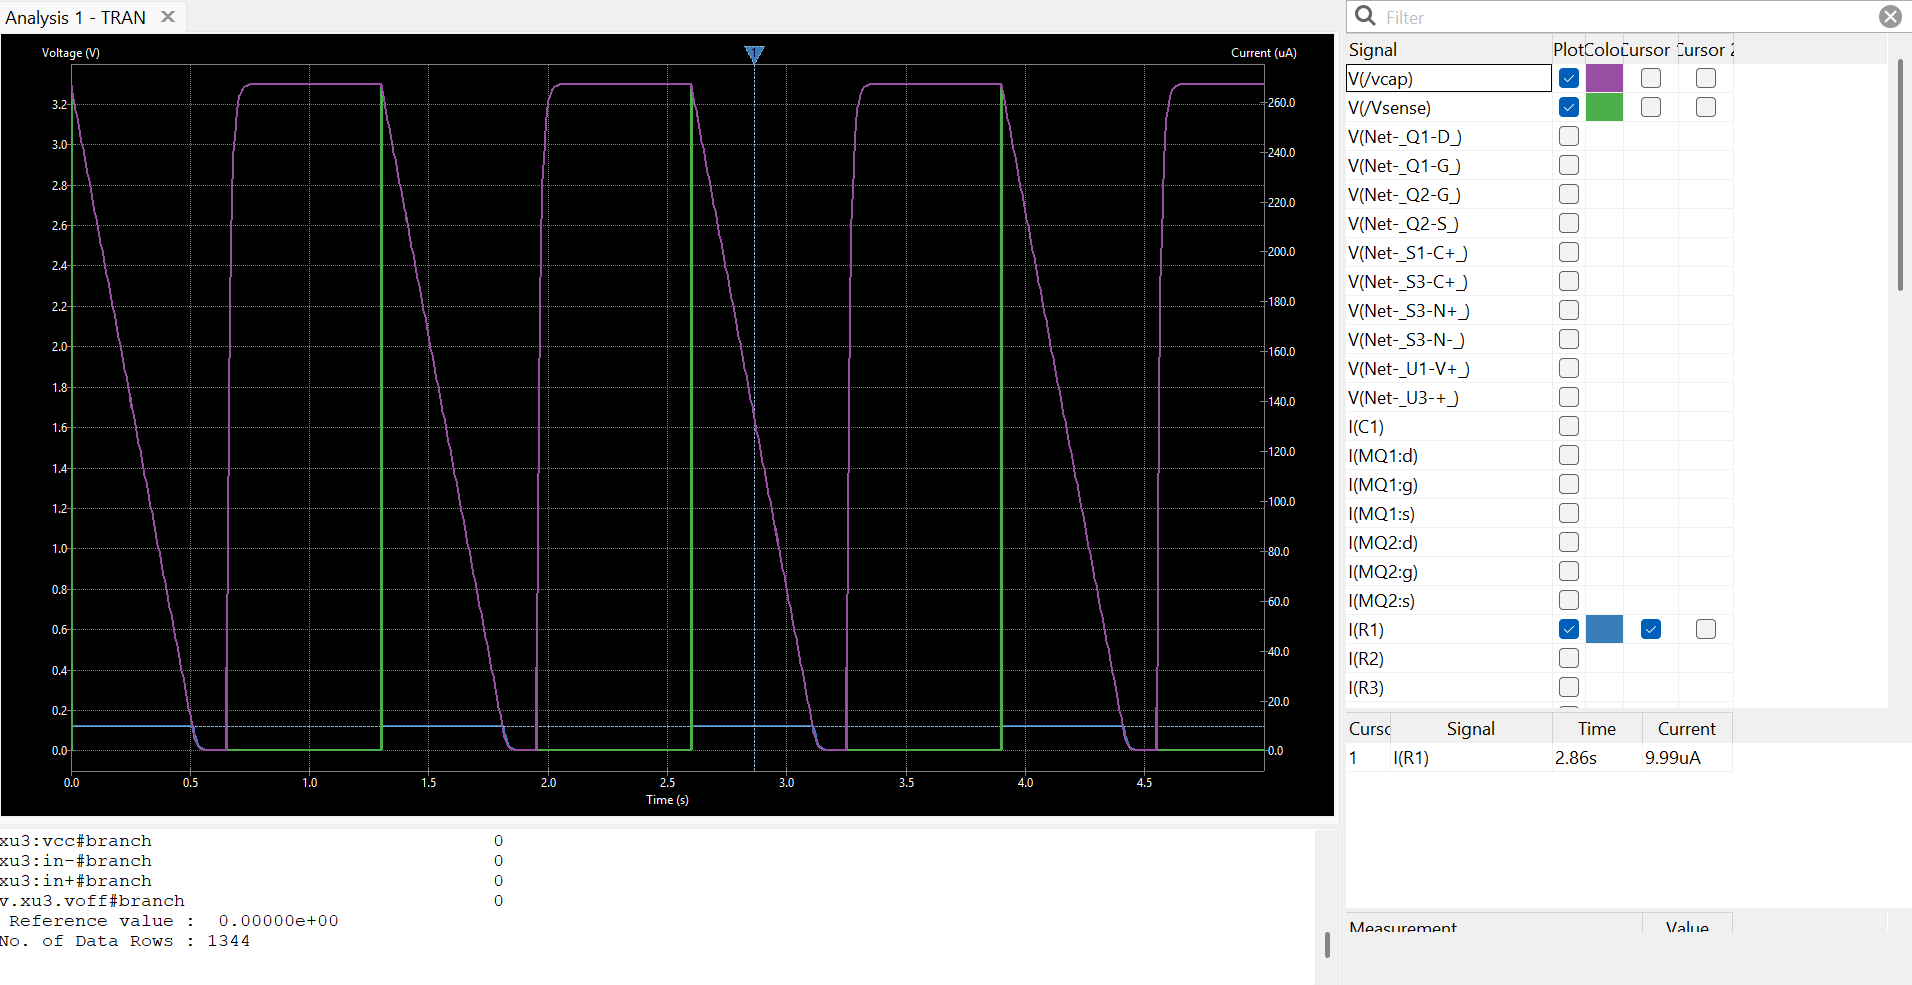
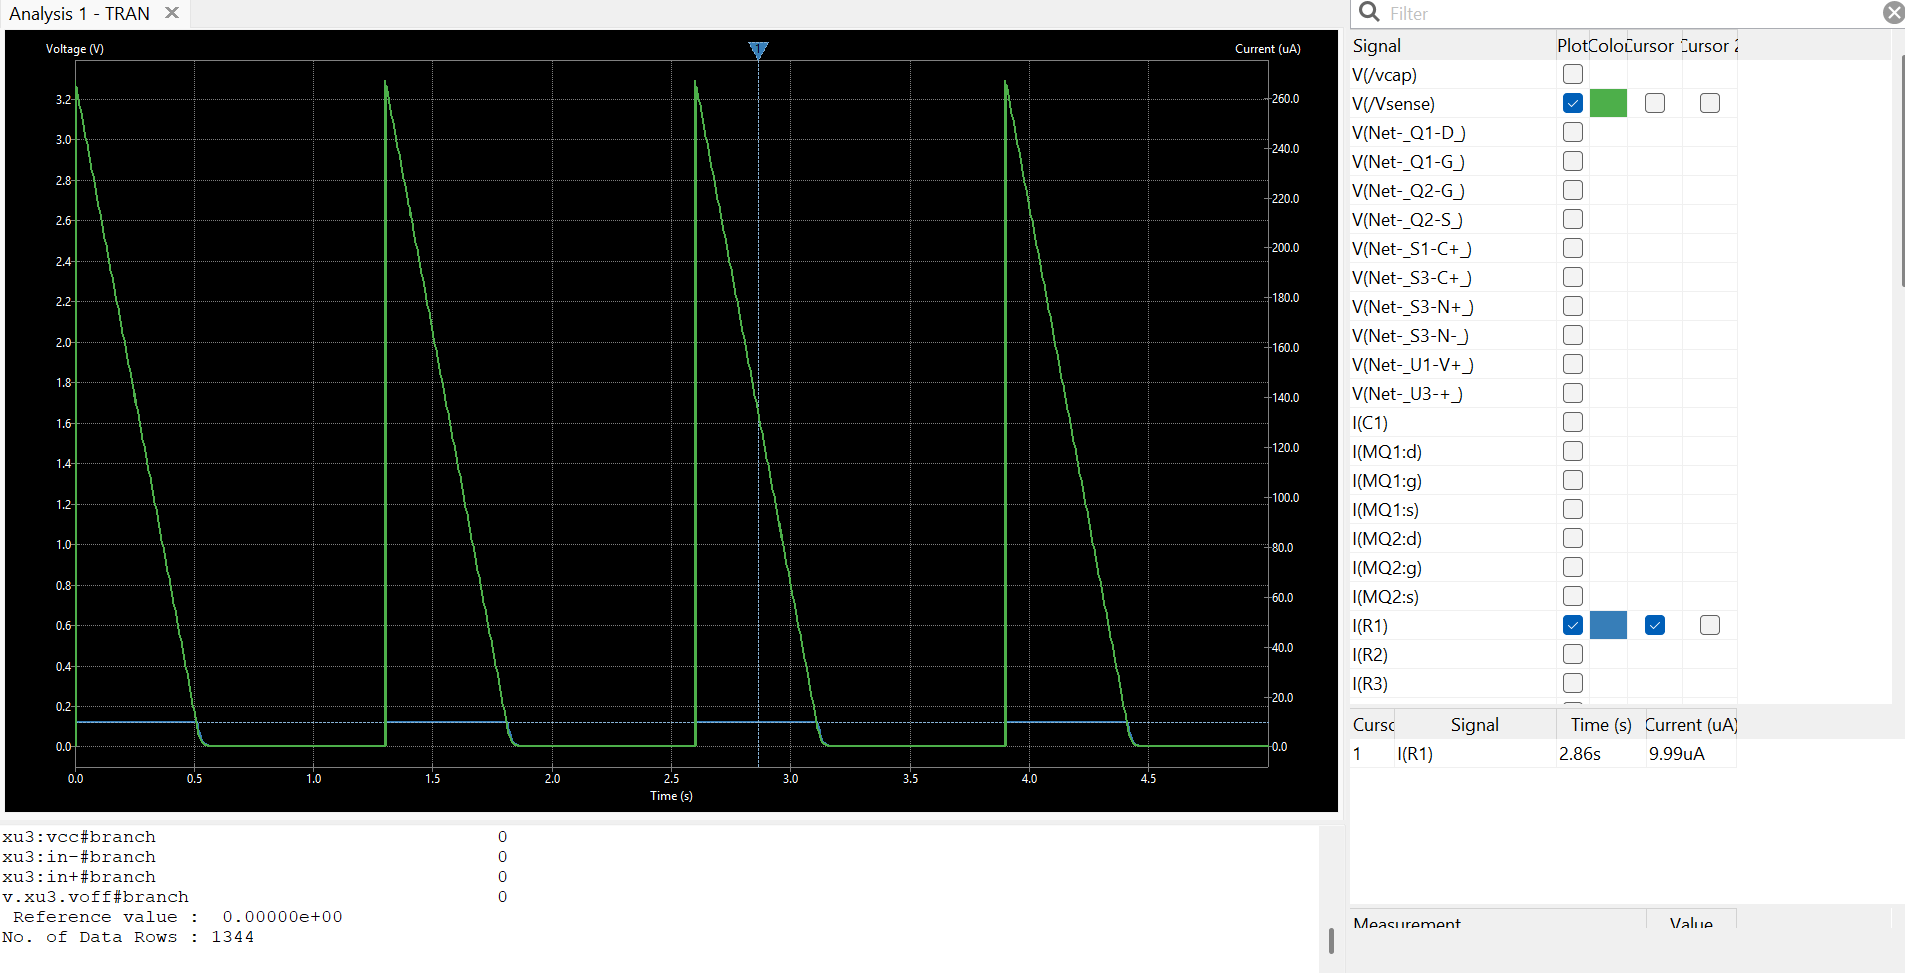
Update simulation screenshot and explain voltage jump on full charge

diff --git a/site/collections/_projects/2024-01-02-supercapacitor-ic.md b/site/collections/_projects/2024-01-02-supercapacitor-ic.md
@@ -11,7 +11,7 @@ As a systems design member of the Chip Scale Power & Energy Vertically Integrate
 
 ## Technical Details
 
-The core requirement is constant-current charge and discharge at 10µA. For charging, this means selecting a dedicated constant-current IC. For discharging, it means designing a custom subunit using automotive-to-milspec grade components that can hold the current steady as the supercapacitor voltage drops.
+The core requirement is constant-current charge and discharge at 10µA. For charging, this means selecting a dedicated constant-current chip. For discharging, it means designing a custom subunit using automotive-to-milspec grade components that can hold the current steady as the supercapacitor voltage drops.
 
 As discharge circuit lead, I used my prior PCB experience from HyTech Racing to guide teammates through circuit design fundamentals while building out the discharge section in KiCad.
 
@@ -70,15 +70,15 @@ As discharge circuit lead, I used my prior PCB experience from HyTech Racing to 
 <div class="code-description">
   <strong>Approach:</strong> The discharge circuit is built around an op-amp feedback system that forces a constant 10µA from the supercapacitor regardless of how its voltage changes over time. The key insight is that a constant current discharge causes voltage to drop linearly, which is exactly the behavior needed to calculate capacitance from C = I × Δt / ΔV.
   <br><br>
-  The current is set by <strong>R1 (9kΩ)</strong> - the sense resistor. With a 0.1V reference (V5), the target voltage across R1 is 0.1V, giving I = 0.1V / 9kΩ ≈ 11µA ≈ 10µA. <strong>U3</strong> (op-amp) continuously compares this 0.1V reference against the actual voltage developing across R1 and drives the gate of <strong>Q1 (NMOS)</strong> to correct deviation — if current rises, Q1 is turned down; if it falls, Q1 is turned up. This feedback loop is what maintains the constant current.
+  The current is set by <strong>R1 (9kΩ)</strong> - the sense resistor. With a 0.1V reference (V5), the target voltage across R1 is 0.1V, giving I = 0.1V / 9kΩ ≈ 11µA ≈ 10µA. <strong>U3</strong> (op-amp) continuously compares this 0.1V reference against the actual voltage developing across R1 and drives the gate of <strong>Q1 (NMOS)</strong> to correct deviation: if current rises, Q1 is turned down; if it falls, Q1 is turned up. This feedback loop is what maintains the constant current.
   <br><br>
   <strong>Q2 (NMOS, Vsense)</strong> acts as the high-side current sense element, isolating the sense path from the main discharge path through <strong>C1 (1.6µF)</strong>. <strong>U1</strong> provides a second comparator stage in the loop for additional stability. <strong>R6 and R7 (both 250kΩ)</strong> form the voltage divider which feeds into the op-amp, and <strong>R2 and R3 (both 4.7kΩ)</strong> set the op-amp feedback gain. <strong>V2 (3.3V)</strong> powers the control circuitry.
 </div>
 <img src="/images/supercap-circuit.png" alt="Discharge circuit schematic" style="width:100%; display:block; margin:16px 0; border-radius:6px; border:1px solid #30363d;">
-<p style="font-size:14px; line-height:1.6; color:#8b949e; margin:0 0 8px;">The transient simulation confirms the circuit behaves as designed. <strong style="color:#c9d1d9;">I(R1) holds at 9.99µA</strong> — effectively 10µA — throughout the discharge phase, validating the feedback loop. The supercapacitor voltage (purple trace) decreases linearly during each discharge interval, the expected signature of a constant-current load. The green trace shows the control switching signal cycling the circuit between charge and discharge states.</p>
+<p style="font-size:14px; line-height:1.6; color:#8b949e; margin:0 0 8px;">The transient simulation confirms the circuit behaves as designed. <strong style="color:#c9d1d9;">I(R1) holds at 9.99µA</strong> throughout each discharge phase, validating the feedback loop. The voltage (blue trace) decreases linearly during discharge — the expected signature of a constant-current load, and exactly what's needed to calculate capacitance. When the voltage jumps sharply back up, that represents the capacitor being fully charged again before the next discharge cycle begins. The green trace shows the control switching signal driving this charge/discharge cycling.</p>
 <figure style="margin:8px 0 16px; text-align:center;">
   <img src="/images/supercap-sim.png" alt="Transient simulation showing constant current discharge" style="width:100%; border-radius:6px; border:1px solid #30363d;">
-  <figcaption style="font-size:13px; color:#8b949e; margin-top:8px;">TRAN simulation — I(R1) = 9.99µA, voltage decreasing linearly during discharge</figcaption>
+  <figcaption style="font-size:13px; color:#8b949e; margin-top:8px;">TRAN simulation — I(R1) = 9.99µA, linear voltage discharge with voltage jumping back on full charge</figcaption>
 </figure>
 </details>
 
